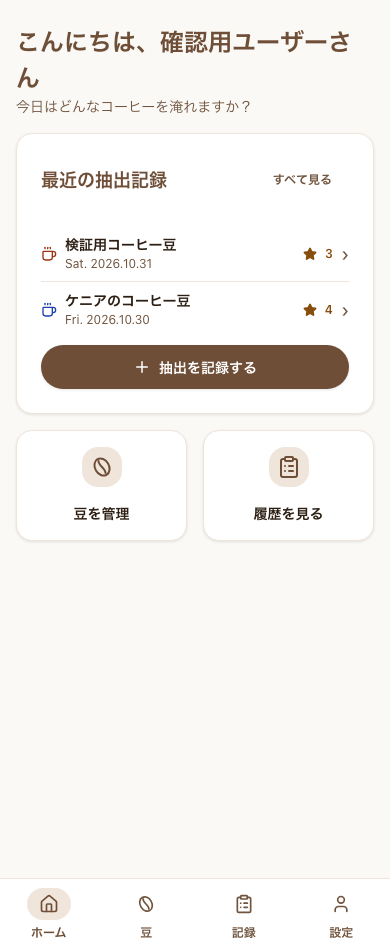
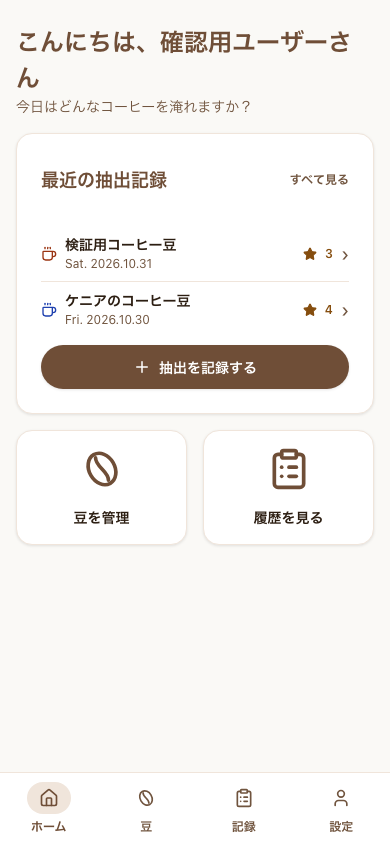
Align recent record ratings and simplify home shortcuts

diff --git a/apps/brewlog/src/pages/Home.tsx b/apps/brewlog/src/pages/Home.tsx
@@ -1,4 +1,11 @@
-import { Loading, ErrorState, RecentRecord, RecentRecords, formatDisplayDate } from "@yahatapp/ui";
+import {
+  Loading,
+  ErrorState,
+  RecentRecord,
+  RecentRecords,
+  RecentRecordsHeader,
+  formatDisplayDate,
+} from "@yahatapp/ui";
 import styles from "./content.module.css";
 import { Link } from "react-router-dom";
 import { useQuery } from "@tanstack/react-query";
@@ -8,7 +15,7 @@ import { useLiff } from "../hooks/useLiff";
 import { logQueries, type BrewLog } from "@/lib/queries";
 import { CoffeeBeansIcon } from "../components/ui/CoffeeBeansIcon";
 import { Button } from "../components/ui/button";
-import { Card, CardContent, CardHeader, CardTitle } from "../components/ui/card";
+import { Card, CardContent } from "../components/ui/card";
 const Home = () => {
   const { profile } = useLiff();
   const navigate = useNavigate();
@@ -27,16 +34,10 @@ const Home = () => {
       </section>
 
       <Card>
-        <CardHeader>
-          <div className={[styles.row, styles.spread].join(" ")}>
-            <CardTitle>最近の抽出記録</CardTitle>
-            {recentLogs.length > 0 && (
-              <Button variant="ghost" size="sm" onClick={() => navigate("/logs")} type="button">
-                すべて見る
-              </Button>
-            )}
-          </div>
-        </CardHeader>
+        <RecentRecordsHeader
+          title="最近の抽出記録"
+          action={recentLogs.length > 0 ? <Link to="/logs">すべて見る</Link> : undefined}
+        />
         <CardContent>
           {logsQuery.isPending ? (
             <Loading />
@@ -98,7 +99,11 @@ const Home = () => {
                           </p>
                         </div>
                         {log.rating != null && (
-                          <div className={[styles.row, styles.warningText, styles.fixed].join(" ")}>
+                          <div
+                            className={[styles.row, styles.warningText, styles.fixed].join(" ")}
+                            role="img"
+                            aria-label={`評価 ${log.rating}`}
+                          >
                             <Star size={14} className={styles.ratingFilled} aria-hidden="true" />
                             <span className={[styles.helper, styles.strong].join(" ")}>
                               {log.rating}
@@ -123,9 +128,7 @@ const Home = () => {
         <Link to={"/beans"} className={styles.entryLink}>
           <Card>
             <div className={[styles.content, styles.stack, styles.center].join(" ")}>
-              <div className={[styles.tonal, styles.rounded, styles.compact].join(" ")}>
-                <CoffeeBeansIcon size="md" className={styles.accent} aria-hidden="true" />
-              </div>
+              <CoffeeBeansIcon size="lg" className={styles.tileIcon} aria-hidden="true" />
               <span className={[styles.body, styles.strong].join(" ")}>豆を管理</span>
             </div>
           </Card>
@@ -133,9 +136,7 @@ const Home = () => {
         <Link to={"/logs"} className={styles.entryLink}>
           <Card>
             <div className={[styles.content, styles.stack, styles.center].join(" ")}>
-              <div className={[styles.tonal, styles.rounded, styles.compact].join(" ")}>
-                <ClipboardList size={24} className={styles.accent} />
-              </div>
+              <ClipboardList className={styles.tileIcon} aria-hidden="true" />
               <span className={[styles.body, styles.strong].join(" ")}>履歴を見る</span>
             </div>
           </Card>

diff --git a/apps/cafelog/src/pages/Home.tsx b/apps/cafelog/src/pages/Home.tsx
@@ -5,13 +5,12 @@ import {
   Button,
   Card,
   CardContent,
-  CardHeader,
-  CardTitle,
   Loading,
   ErrorState,
   EmptyState,
   RecentRecord,
   RecentRecords,
+  RecentRecordsHeader,
   formatDisplayDate,
 } from "@yahatapp/ui";
 import { MapPin, Plus, Star } from "lucide-react";
@@ -38,16 +37,10 @@ const HomePage = () => {
         <p className={styles.muted}>最近出会った一杯を振り返りましょう。</p>
       </section>
       <Card>
-        <CardHeader>
-          <div className={styles.header}>
-            <CardTitle>最近のカフェ記録</CardTitle>
-            {recentLogs.length > 0 && (
-              <Button asChild variant="ghost" size="sm">
-                <Link to="/logs">すべて見る</Link>
-              </Button>
-            )}
-          </div>
-        </CardHeader>
+        <RecentRecordsHeader
+          title="最近のカフェ記録"
+          action={recentLogs.length > 0 ? <Link to="/logs">すべて見る</Link> : undefined}
+        />
         <CardContent>
           {logsQuery.isPending ? (
             <Loading label="直近の記録を読み込み中..." />
@@ -76,15 +69,7 @@ const HomePage = () => {
                     <Link to={`/logs/${log.id}`}>
                       <OriginFlag origin={log.origin} />
                       <span className={styles.recentBody}>
-                        <span className={styles.header}>
-                          <span className={styles.recordTitle}>{log.cafeName}</span>
-                          {log.rating != null && (
-                            <span className={styles.rating} aria-label={`評価 ${log.rating}`}>
-                              <Star size={14} className={styles.star} aria-hidden="true" />
-                              {log.rating}
-                            </span>
-                          )}
-                        </span>
+                        <span className={styles.recordTitle}>{log.cafeName}</span>
                         <span className={styles.visit}>
                           {log.origin && (
                             <span>
@@ -97,6 +82,16 @@ const HomePage = () => {
                           )}
                         </span>
                       </span>
+                      {log.rating != null && (
+                        <span
+                          className={styles.rating}
+                          role="img"
+                          aria-label={`評価 ${log.rating}`}
+                        >
+                          <Star size={14} className={styles.star} aria-hidden="true" />
+                          {log.rating}
+                        </span>
+                      )}
                     </Link>
                   </RecentRecord>
                 ))}

diff --git a/packages/ui/src/components/recent-records.tsx b/packages/ui/src/components/recent-records.tsx
@@ -1,6 +1,25 @@
 import { Slot, Slottable } from "@radix-ui/react-slot";
 import type { ReactElement, ReactNode } from "react";
+import { Button } from "./button";
+import { CardHeader, CardTitle } from "./card";
 import styles from "./recent-records.module.css";
+
+export function RecentRecordsHeader({ title, action }: { title: string; action?: ReactElement }) {
+  return (
+    <CardHeader>
+      <div className={styles.header}>
+        <CardTitle>{title}</CardTitle>
+        {action && (
+          <div className={styles.headerAction}>
+            <Button asChild variant="ghost" size="sm">
+              {action}
+            </Button>
+          </div>
+        )}
+      </div>
+    </CardHeader>
+  );
+}
 
 export function RecentRecords({ children }: { children: ReactNode }) {
   return (

diff --git a/packages/ui/src/index.ts b/packages/ui/src/index.ts
@@ -49,6 +49,6 @@ export {
 export { StoreLink, type StoreLinkProps } from "./components/store-link";
 export { STORE_LINK_TYPES, classifyStoreLink, type StoreLinkType } from "./lib/store-links";
 
-export { RecentRecord, RecentRecords } from "./components/recent-records";
+export { RecentRecord, RecentRecords, RecentRecordsHeader } from "./components/recent-records";
 export { SettingsAbout, SettingsProfile } from "./components/settings-sections";
 export { formatDisplayDate } from "./lib/display-date";

diff --git a/packages/ui/src/components/recent-records.module.css b/packages/ui/src/components/recent-records.module.css
@@ -1,4 +1,14 @@
 @layer components {
+  .header {
+    display: flex;
+    align-items: center;
+    justify-content: space-between;
+    gap: var(--cl-space-field-gap);
+  }
+  .headerAction {
+    flex-shrink: 0;
+    margin-inline-end: calc(-1 * (var(--cl-space-page-inline) + var(--cl-border-width)));
+  }
   .list {
     list-style: none;
     padding: 0;

diff --git a/apps/brewlog/src/pages/content.module.css b/apps/brewlog/src/pages/content.module.css
@@ -55,6 +55,11 @@
     grid-template-columns: repeat(2, minmax(0, 1fr));
     gap: var(--cl-space-page-inline);
   }
+  .tileIcon {
+    width: var(--cl-size-target-min);
+    height: var(--cl-size-target-min);
+    color: var(--cl-color-action-primary);
+  }
   .spread {
     flex-wrap: wrap;
     justify-content: space-between;

diff --git a/apps/brewlog/src/pages/content.module.css.d.ts b/apps/brewlog/src/pages/content.module.css.d.ts
@@ -57,6 +57,7 @@ declare const styles: {
   readonly surface: string;
   readonly target: string;
   readonly textLink: string;
+  readonly tileIcon: string;
   readonly tiles: string;
   readonly tonal: string;
   readonly visuallyHidden: string;

diff --git a/apps/cafelog/src/pages/content.module.css b/apps/cafelog/src/pages/content.module.css
@@ -60,6 +60,7 @@
   .rating {
     display: flex;
     align-items: center;
+    flex-shrink: 0;
     gap: var(--cl-space-tight);
     font-size: var(--cl-font-size-helper);
     color: var(--cl-color-action-primary);

diff --git a/packages/ui/src/components/recent-records.module.css.d.ts b/packages/ui/src/components/recent-records.module.css.d.ts
@@ -1,5 +1,7 @@
 declare const styles: {
   readonly chevron: string;
+  readonly header: string;
+  readonly headerAction: string;
   readonly item: string;
   readonly link: string;
   readonly list: string;

diff --git a/docs/design-system/changelog.md b/docs/design-system/changelog.md
@@ -2,7 +2,8 @@
 
 ## 2026年11月15日：ホーム・抽出履歴・設定・通知の表示を調整
 
-- ホームの最近の記録は、背景色のないリンクと薄い区切り線で一覧にする。日付は両アプリで `Sat. 2026.10.31` の形式に揃える。
+- ホームの最近の記録は、背景色のないリンクと薄い区切り線で一覧にする。評価は行の上下中央に置き、見出しと「すべて見る」の外側の余白を揃える。日付は両アプリで `Sat. 2026.10.31` の形式に揃える。
+- Brewlogのホームでは「豆を管理」と「履歴を見る」のアイコンの背景色を外し、アイコンを44pxに拡大する。
 - Brewlogの抽出履歴は国旗の下の丸で温度を示す。読み上げ用のホット・アイスの名前を付け、評価は行の上下中央に配置する。
 - 設定のプロフィールと「アプリについて」は共通部品を使う。通知は内容の上下の余白を揃え、閉じるボタンは操作領域を保ちながら右上に配置する。
 
